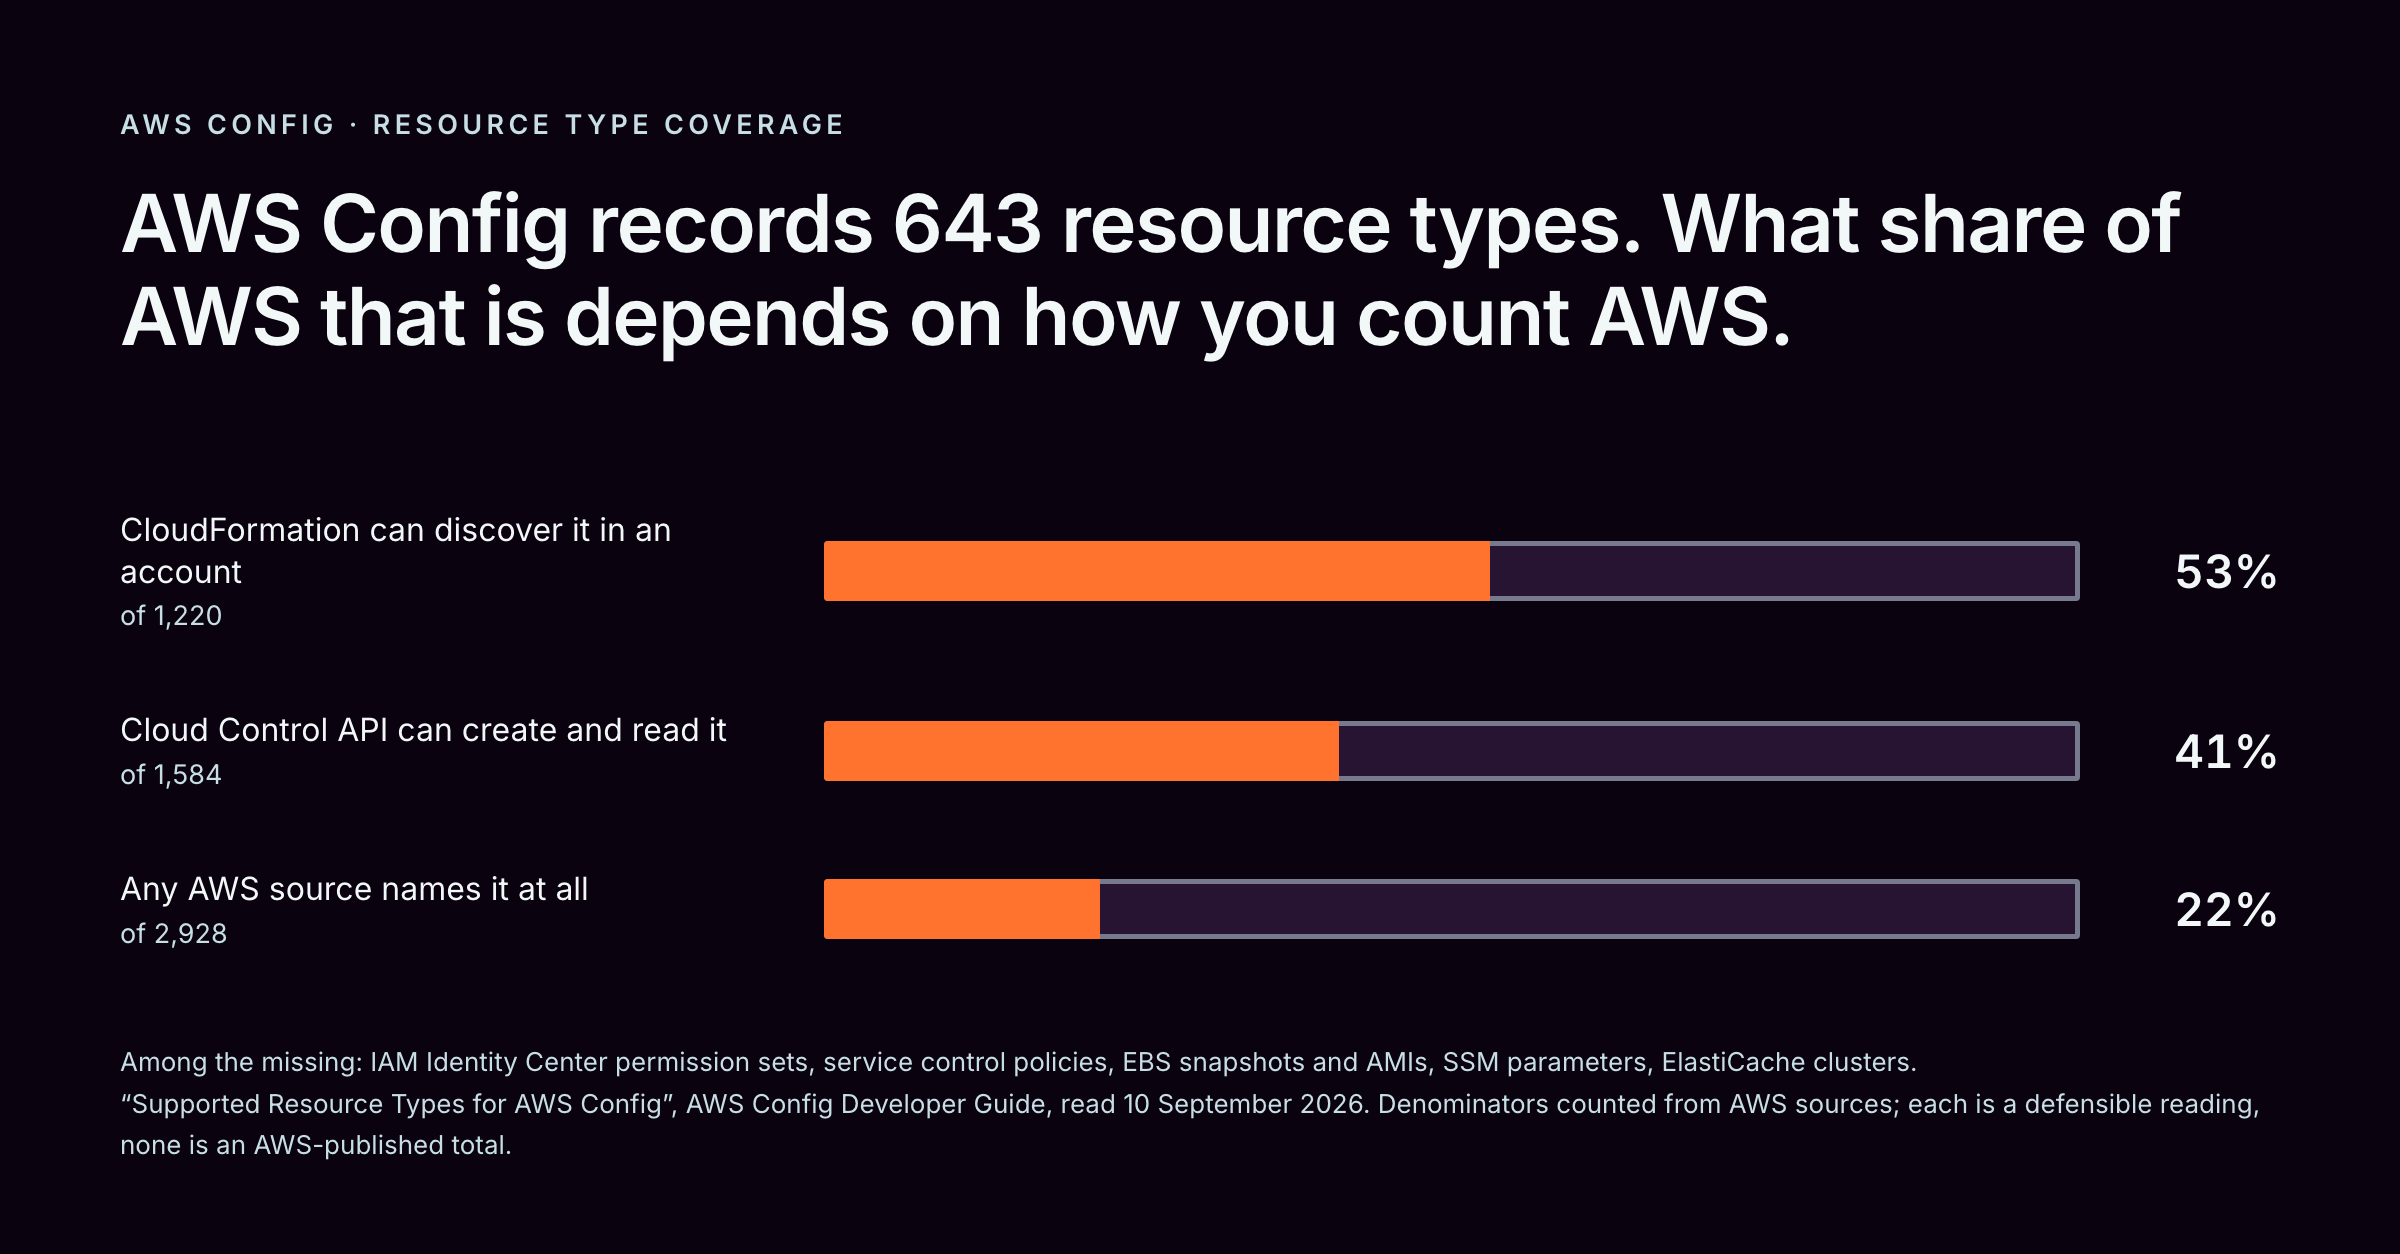
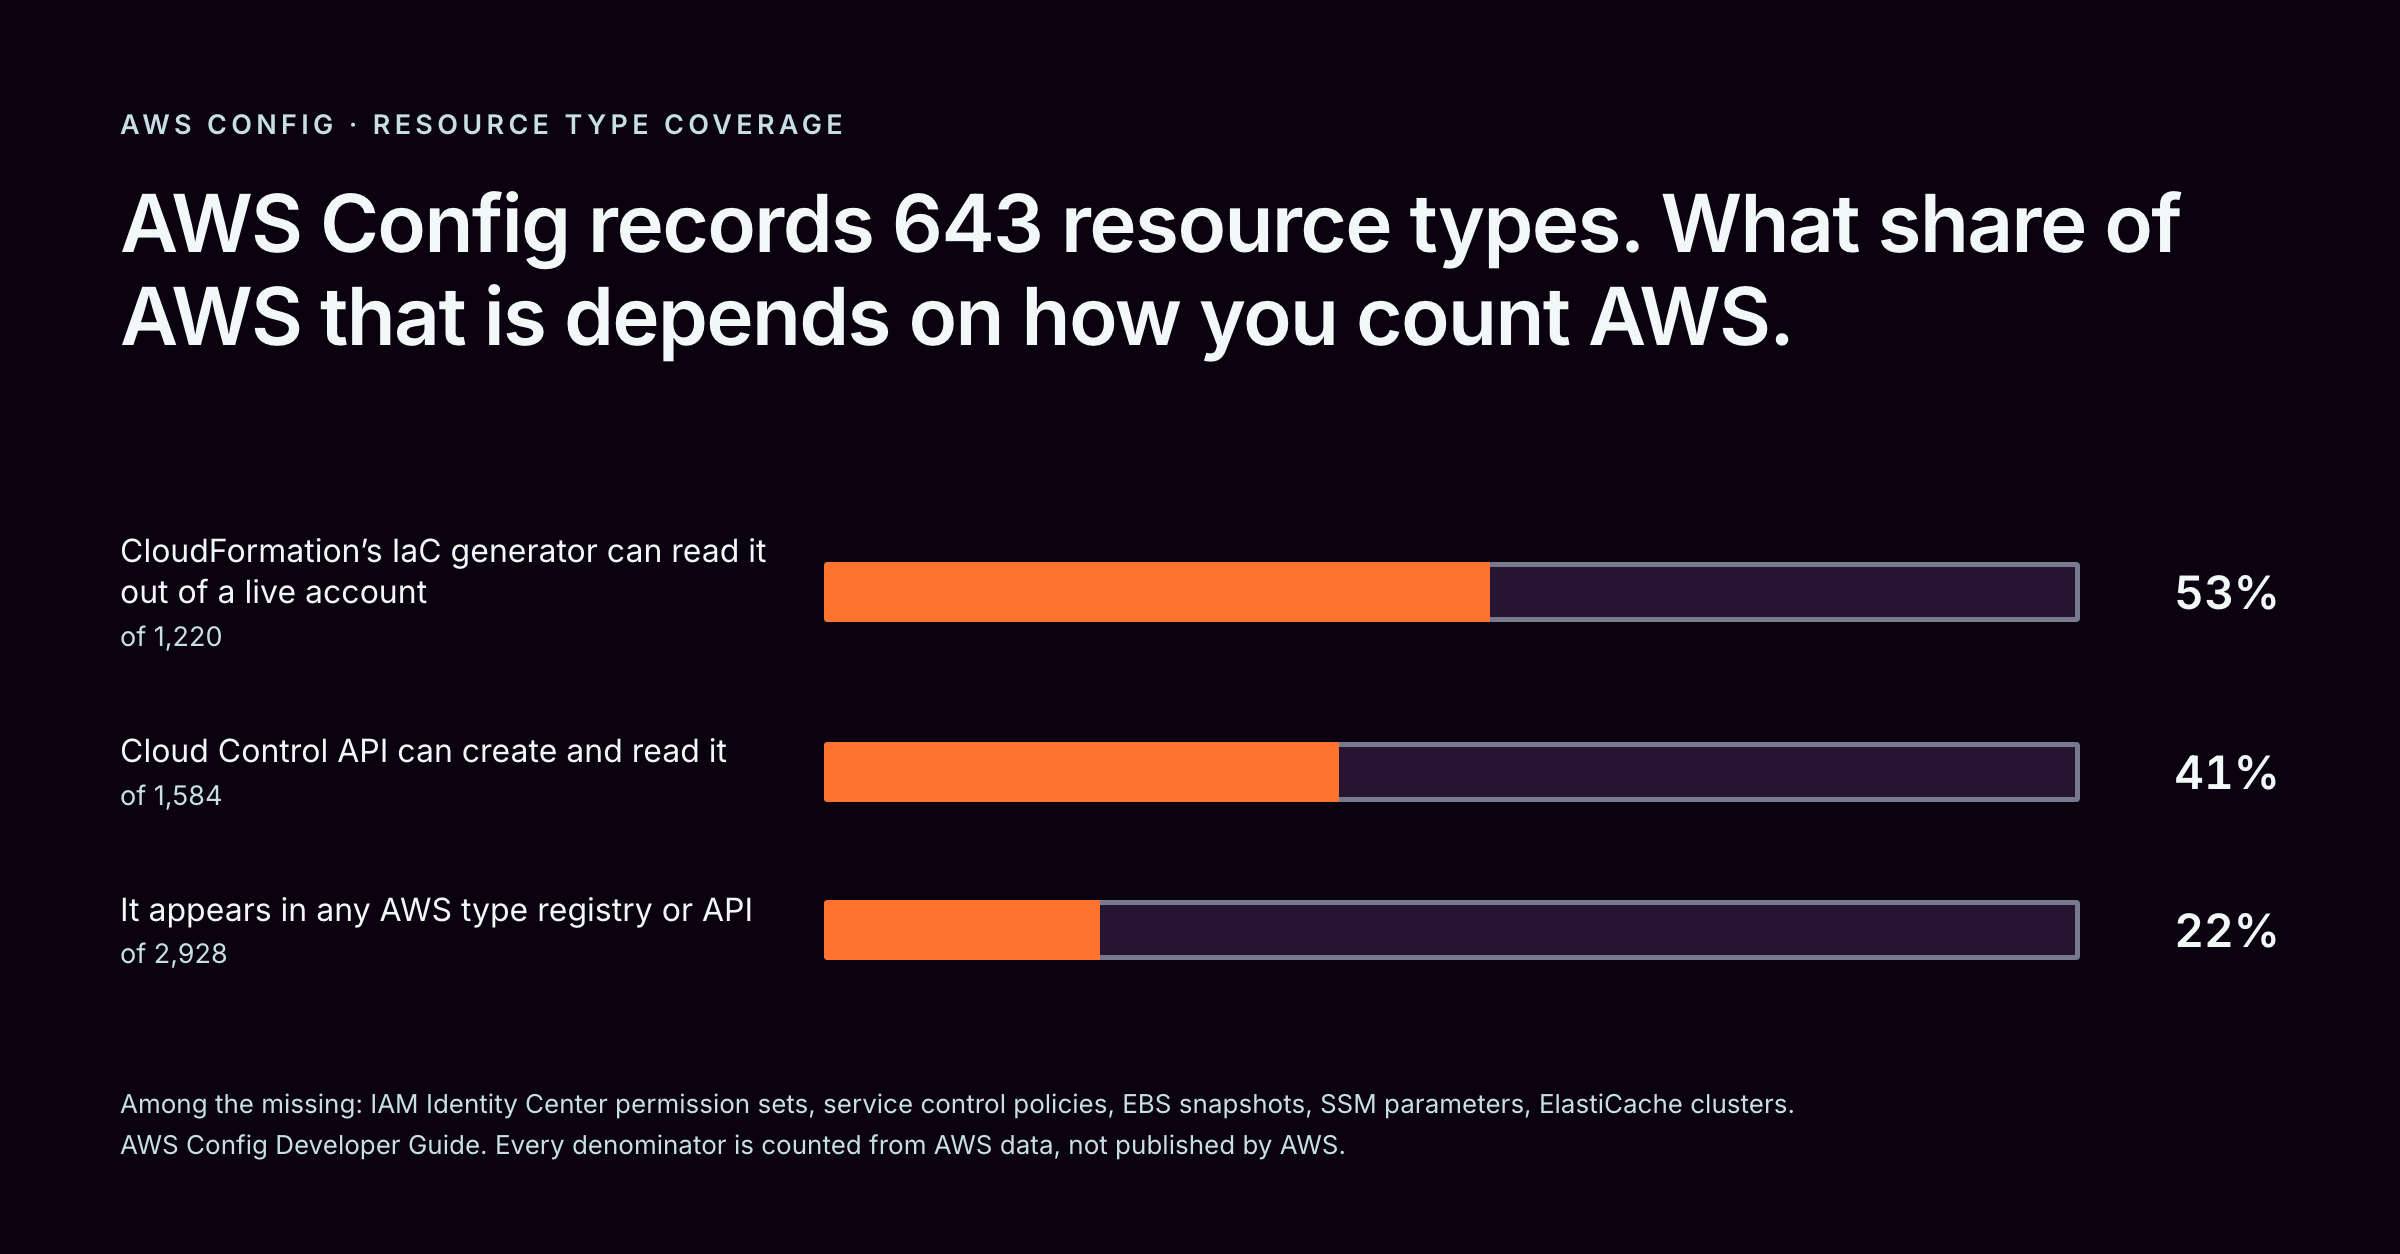
Name the actual source in each Config denominator label

diff --git a/docs/social/config-resource-type-coverage.html b/docs/social/config-resource-type-coverage.html
@@ -26,7 +26,7 @@ h1{font-size:40px; font-weight:600; line-height:1.16; letter-spacing:-.02em}
   <h1>AWS Config records 643 resource types. What share of AWS that is depends on how you count AWS.</h1>
   <div class="rows">
   <div class="row">
-    <div class="lab">CloudFormation can discover it in an account<em>of 1,220</em></div>
+    <div class="lab">CloudFormation&rsquo;s IaC generator can read it out of a live account<em>of 1,220</em></div>
     <div class="track"><div class="fill" style="width:53%"></div></div>
     <div class="pct">53%</div>
   </div>
@@ -36,10 +36,10 @@ h1{font-size:40px; font-weight:600; line-height:1.16; letter-spacing:-.02em}
     <div class="pct">41%</div>
   </div>
   <div class="row">
-    <div class="lab">Any AWS source names it at all<em>of 2,928</em></div>
+    <div class="lab">It appears in any AWS type registry or API<em>of 2,928</em></div>
     <div class="track"><div class="fill" style="width:22%"></div></div>
     <div class="pct">22%</div>
   </div>
   </div>
-  <div class="src">Among the missing: IAM Identity Center permission sets, service control policies, EBS snapshots and AMIs, SSM parameters, ElastiCache clusters.<br>&ldquo;Supported Resource Types for AWS Config&rdquo;, AWS Config Developer Guide, read 10&nbsp;September&nbsp;2026. Denominators counted from AWS sources; each is a defensible reading, none is an AWS-published total.</div>
+  <div class="src">Among the missing: IAM Identity Center permission sets, service control policies, EBS snapshots, SSM parameters, ElastiCache clusters.<br>AWS Config Developer Guide. Every denominator is counted from AWS data, not published by AWS.</div>
 </body></html>
